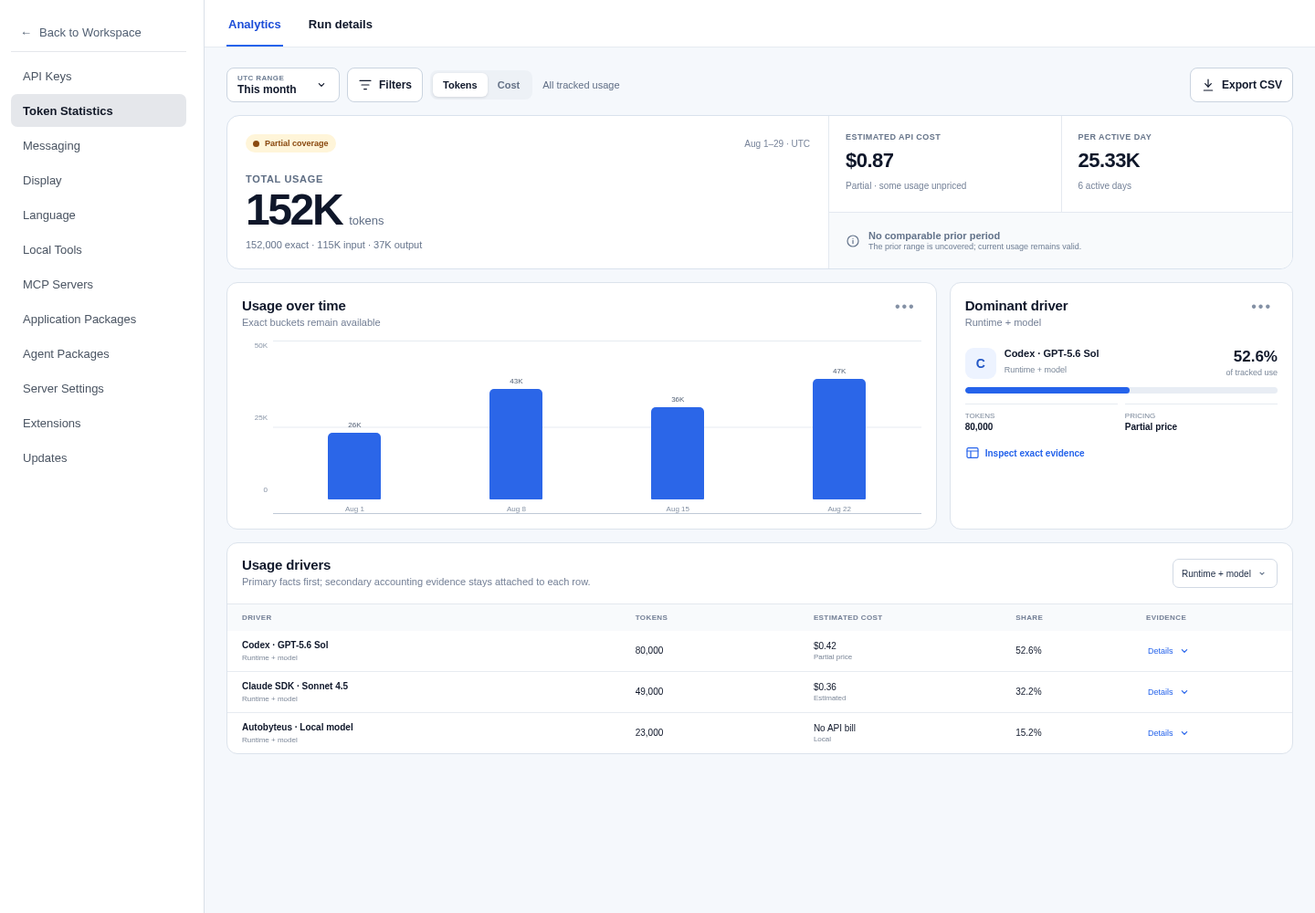
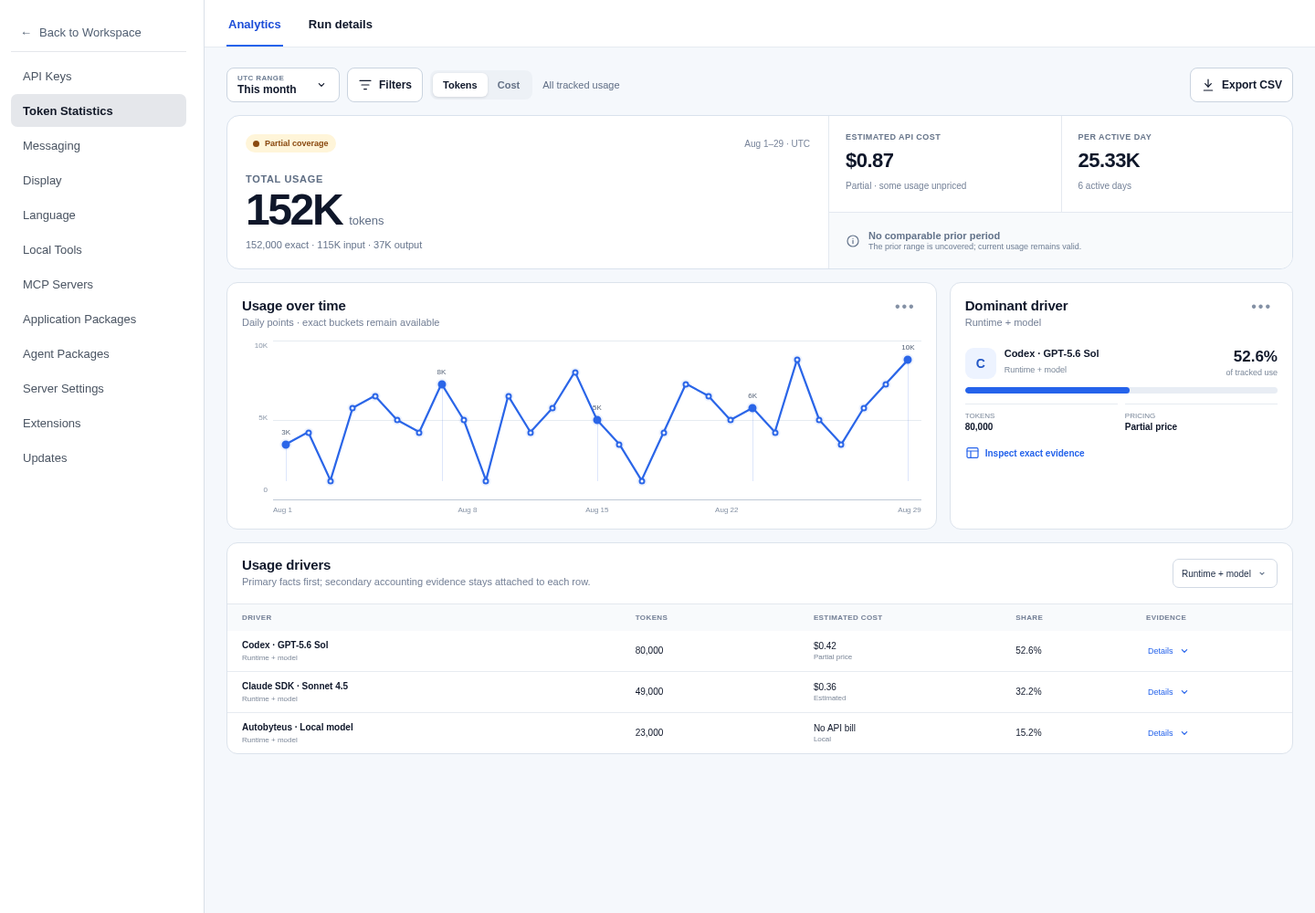
prototype: replace usage bars with daily line trend

Changed region(s): [[0.2188, 0.403, 0.6875, 0.558], [0.1875, 0.341, 0.3125, 0.372]]

diff --git a/visualizers/REQPKG-TSUI-001/src/App.tsx b/visualizers/REQPKG-TSUI-001/src/App.tsx
@@ -191,7 +191,7 @@ function Analytics(props: AnalyticsProps) {
         <div><span>Prior period</span><strong>{props.full ? "+28.2%" : "—"}</strong><small>{props.full ? "+33.44K · Prior 118.56K" : "Not comparable"}</small></div>
       </section>
       <div className="dense-analysis-grid">
-        <section className="plain-section trend-section"><SectionHeading title="Usage over time" meta="Aug 1–29 · UTC" /><TrendChart compact metric={props.metric} full={props.full} /></section>
+        <section className="plain-section trend-section"><SectionHeading title="Usage over time" meta="Aug 1–29 · UTC" /><TrendChart compact filtered={props.filterApplied} metric={props.metric} full={props.full} /></section>
         <section className="plain-section rank-section"><SectionHeading title="Leading drivers" meta="Runtime + model" /><DriverBars rows={driverData} metric={props.metric} /></section>
       </div>
       <DenseEvidence exactVisible={props.exactVisible} evidenceOpen={props.evidenceOpen} rows={driverData} setEvidenceOpen={props.setEvidenceOpen} />
@@ -219,7 +219,7 @@ function Analytics(props: AnalyticsProps) {
       </div>
     </section>
     <div className="focus-analysis-grid">
-      <section className="surface-section trend-section"><SectionHeading title="Usage over time" meta="Exact buckets remain available" /><TrendChart metric={props.metric} full={props.full} /></section>
+      <section className="surface-section trend-section"><SectionHeading title="Usage over time" meta="Daily points · exact buckets remain available" /><TrendChart filtered={props.filterApplied} metric={props.metric} full={props.full} /></section>
       <section className="surface-section driver-spotlight"><SectionHeading title="Dominant driver" meta="Runtime + model" /><DriverSpotlight row={driverData[0]} metric={props.metric} /><button className="text-action" onClick={() => props.setEvidenceOpen(props.evidenceOpen ? null : "codex")} type="button"><Icon name="table" /> Inspect exact evidence</button></section>
     </div>
     <FocusEvidence exactVisible={props.exactVisible} evidenceOpen={props.evidenceOpen} rows={driverData} setEvidenceOpen={props.setEvidenceOpen} />
@@ -271,13 +271,38 @@ function SectionHeading({ title, meta }: { title: string; meta: string }) {
   return <div className="section-heading"><div><h3>{title}</h3><p>{meta}</p></div><button aria-label={`More options for ${title}`} type="button">•••</button></div>;
 }
 
-function TrendChart({ compact = false, metric, full }: { compact?: boolean; metric: Metric; full: boolean }) {
-  const values = metric === "tokens" ? [26, 43, 36, 47] : [18, 28, 22, full ? 31 : 19];
+function TrendChart({ compact = false, filtered, metric, full }: { compact?: boolean; filtered: boolean; metric: Metric; full: boolean }) {
+  const tokenValues = filtered
+    ? [2, 2, 0, 3, 4, 3, 2, 4, 3, 0, 4, 2, 3, 5, 3, 2, 0, 2, 4, 4, 3, 3, 2, 5, 3, 2, 3, 4, 3]
+    : [3, 4, 0, 6, 7, 5, 4, 8, 5, 0, 7, 4, 6, 9, 5, 3, 0, 4, 8, 7, 5, 6, 4, 10, 5, 3, 6, 8, 10];
+  const costTotal = filtered ? 0.42 : full ? 1.17 : 0.87;
+  const tokenTotal = tokenValues.reduce((sum, value) => sum + value, 0);
+  const values = metric === "tokens" ? tokenValues : tokenValues.map((value) => value * costTotal / tokenTotal);
   const max = Math.max(...values);
+  const points = values.map((value, index) => ({
+    day: index + 1,
+    value,
+    x: 2 + (index / (values.length - 1)) * 96,
+    y: 88 - (value / max) * 76,
+  }));
+  const linePath = points.map((point, index) => `${index === 0 ? "M" : "L"} ${point.x} ${point.y}`).join(" ");
+  const emphasisDays = new Set([1, 8, 15, 22, 29]);
+  const formatValue = (value: number) => metric === "tokens" ? `${value}K` : `$${value.toFixed(2)}`;
+  const exactSeries = points.map((point) => `Aug ${point.day}: ${metric === "tokens" ? `${point.value * 1000} tokens` : `$${point.value.toFixed(4)}`}`).join(", ");
   return <div className={`trend-chart ${compact ? "compact" : ""}`}>
-    <div className="chart-y"><span>{metric === "tokens" ? "50K" : "$0.40"}</span><span>{metric === "tokens" ? "25K" : "$0.20"}</span><span>0</span></div>
-    <div className="bars" role="img" aria-label={`${metric === "tokens" ? "Token" : "Estimated cost"} usage across four chronological UTC buckets: ${values.join(", ")}`}>
-      {values.map((value, index) => <div className="bar-column" key={index}><span className="bar-value">{metric === "tokens" ? `${value}K` : `$${(value / 100).toFixed(2)}`}</span><span className="bar" style={{ height: `${Math.round((value / max) * (compact ? 86 : 132))}px` }} /><small>Aug {index * 7 + 1}</small></div>)}
+    <div className="chart-y"><span>{formatValue(max)}</span><span>{formatValue(max / 2)}</span><span>0</span></div>
+    <div className="line-chart-shell" role="img" aria-label={`${metric === "tokens" ? "Token" : "Estimated cost"} usage across 29 daily UTC buckets. ${exactSeries}`}>
+      <div className="line-plot">
+        <svg aria-hidden="true" className="trend-line-svg" preserveAspectRatio="none" viewBox="0 0 100 100">
+          <path className="trend-line" d={linePath} vectorEffect="non-scaling-stroke" />
+        </svg>
+        {points.map((point) => <span className={`trend-point-wrap ${emphasisDays.has(point.day) ? "emphasis" : ""}`} key={point.day} style={{ left: `${point.x}%`, top: `${point.y}%` }}>
+          {emphasisDays.has(point.day) && <span className="trend-stem" />}
+          {emphasisDays.has(point.day) && point.value > 0 && <span className="trend-point-value">{formatValue(point.value)}</span>}
+          <span className="trend-point" />
+        </span>)}
+      </div>
+      <div className="line-x-labels"><span>Aug 1</span><span>Aug 8</span><span>Aug 15</span><span>Aug 22</span><span>Aug 29</span></div>
     </div>
   </div>;
 }

diff --git a/visualizers/REQPKG-TSUI-001/src/styles.css b/visualizers/REQPKG-TSUI-001/src/styles.css
@@ -132,14 +132,22 @@ h1 { font-size: clamp(28px, 3.5vw, 44px); letter-spacing: -.035em; line-height: 
 .comparison-note strong { font-size: 11px; }
 .comparison-note span { color: #718096; font-size: 9px; }
 .focus-analysis-grid { display: grid; gap: 14px; grid-template-columns: minmax(0, 1.55fr) minmax(250px, .75fr); margin-bottom: 14px; }
-.trend-chart { display: grid; grid-template-columns: 34px 1fr; height: 190px; margin-top: 12px; }
+.trend-chart { display: grid; grid-template-columns: 34px minmax(0, 1fr); height: 190px; margin-top: 12px; }
 .trend-chart.compact { height: 142px; }
 .chart-y { color: #8a96a8; display: flex; flex-direction: column; font-size: 8px; justify-content: space-between; padding: 1px 6px 22px 0; text-align: right; }
-.bars { align-items: end; background-image: linear-gradient(#e6ebf1 1px, transparent 1px); background-size: 100% 50%; border-bottom: 1px solid #bfc9d6; display: flex; gap: clamp(12px, 4vw, 34px); justify-content: space-around; padding: 12px 18px 0; }
-.bar-column { align-items: center; display: flex; flex: 1; flex-direction: column; justify-content: end; max-width: 86px; min-width: 24px; position: relative; }
-.bar { background: #2b66e8; border-radius: 5px 5px 1px 1px; display: block; max-width: 58px; min-height: 5px; width: 100%; }
-.bar-value { color: #536176; font-size: 8px; margin-bottom: 4px; }
-.bar-column small { color: #8390a3; font-size: 8px; margin-top: 6px; white-space: nowrap; }
+.line-chart-shell { display: flex; flex-direction: column; min-width: 0; }
+.line-plot { background-image: linear-gradient(#e6ebf1 1px, transparent 1px); background-size: 100% 50%; border-bottom: 1px solid #bfc9d6; flex: 1; min-height: 0; position: relative; }
+.trend-line-svg { inset: 0; overflow: visible; position: absolute; width: 100%; height: 100%; }
+.trend-line { fill: none; stroke: #2b66e8; stroke-linecap: round; stroke-linejoin: round; stroke-width: 2.25; }
+.trend-point-wrap { bottom: 12%; position: absolute; width: 0; }
+.trend-point { background: #fff; border: 2px solid #2b66e8; border-radius: 50%; box-shadow: 0 0 0 2px rgba(43, 102, 232, .08); display: block; height: 7px; position: absolute; transform: translate(-50%, -50%); width: 7px; }
+.trend-point-wrap.emphasis .trend-point { background: #2b66e8; height: 9px; width: 9px; }
+.trend-stem { background: rgba(43, 102, 232, .16); bottom: 0; left: 0; position: absolute; top: 4px; width: 1px; }
+.trend-point-value { color: #536176; font-size: 8px; left: 0; position: absolute; top: -18px; transform: translateX(-50%); white-space: nowrap; }
+.line-x-labels { color: #8390a3; display: grid; font-size: 8px; grid-template-columns: repeat(5, 1fr); padding-top: 6px; }
+.line-x-labels span { text-align: center; white-space: nowrap; }
+.line-x-labels span:first-child { text-align: left; }
+.line-x-labels span:last-child { text-align: right; }
 .driver-spotlight-body { display: grid; gap: 9px; grid-template-columns: 34px 1fr auto; margin-top: 20px; }
 .driver-icon { align-items: center; background: #edf3ff; border-radius: 9px; color: #2458c6; display: flex; font-size: 14px; font-weight: 800; grid-row: 1; height: 34px; justify-content: center; width: 34px; }
 .driver-name { display: grid; gap: 2px; }

diff --git a/tickets/in-progress/REQPKG-TSUI-001/prototype-ticket.md b/tickets/in-progress/REQPKG-TSUI-001/prototype-ticket.md
@@ -28,9 +28,9 @@
 - Product acceptance result and date: Accepted 2026-08-29; see `/home/autobyteus/workspace/autobyteus-web-prototype-worktrees/REQPKG-TSUI-001/tickets/in-progress/REQPKG-TSUI-001/baseline-acceptance.md`.
 - Accepted Token Statistics baseline revision: `6ba98942c669329f70ba902db4a2880375ad52ad`
 - Baseline metadata revision: `16638137bdb8ebe627507dac6c3c8bdbc5edf9d6`
-- Prototype revision containing the current `RV-003` visualizer, feasibility audit, and evidence: `82505829cb62937f5acd479ce17668a66178a7a0`
+- Prototype revision containing the current `RV-004` visualizer, feasibility audit, and evidence: Pending durable `RV-004` commit.
 - Ticket folder: `/home/autobyteus/workspace/autobyteus-web-prototype-worktrees/REQPKG-TSUI-001/tickets/in-progress/REQPKG-TSUI-001`
-- Integration target and result: The accepted baseline commits `6ba98942c669329f70ba902db4a2880375ad52ad` and `16638137bdb8ebe627507dac6c3c8bdbc5edf9d6` are now on `origin/personal`. The exploratory `RV-003` work remains only on `prototype/reqpkg-tsui-001` while user review is open.
+- Integration target and result: The accepted baseline commits `6ba98942c669329f70ba902db4a2880375ad52ad` and `16638137bdb8ebe627507dac6c3c8bdbc5edf9d6` are now on `origin/personal`. The exploratory `RV-004` work remains only on `prototype/reqpkg-tsui-001` while user review is open.
 - Cleanup result: Deferred. Retain the active worktree and review runtimes while status is `Awaiting User Review`.
 
 ## Runtime Isolation
@@ -48,8 +48,8 @@
 
 - UI/UX specification: Not applicable in exploratory Requirements Visualization mode.
 - Requirements-visualization brief: `/home/autobyteus/workspace/autobyteus-web-prototype-worktrees/REQPKG-TSUI-001/tickets/in-progress/REQPKG-TSUI-001/requirements-visualization-brief.md`
-- Requirements-visualization design plan: `/home/autobyteus/workspace/autobyteus-web-prototype-worktrees/REQPKG-TSUI-001/tickets/in-progress/REQPKG-TSUI-001/requirements-visualization-design-plan.md`; revision `RV-002`, status `Ready to Build`.
-- Requirements-visualization review: `/home/autobyteus/workspace/autobyteus-web-prototype-worktrees/REQPKG-TSUI-001/tickets/in-progress/REQPKG-TSUI-001/requirements-visualization-review.md`; revision `RV-003`, status `Ready for Review`.
+- Requirements-visualization design plan: `/home/autobyteus/workspace/autobyteus-web-prototype-worktrees/REQPKG-TSUI-001/tickets/in-progress/REQPKG-TSUI-001/requirements-visualization-design-plan.md`; revision `RV-004`, status `Ready to Build`.
+- Requirements-visualization review: `/home/autobyteus/workspace/autobyteus-web-prototype-worktrees/REQPKG-TSUI-001/tickets/in-progress/REQPKG-TSUI-001/requirements-visualization-review.md`; revision `RV-004`, status `Ready for Review`.
 - Current-contract feasibility audit: `/home/autobyteus/workspace/autobyteus-web-prototype-worktrees/REQPKG-TSUI-001/tickets/in-progress/REQPKG-TSUI-001/implementation-feasibility-audit.md`; classification `Achievable with current source-pin data and GraphQL contracts after correction`.
 - Visualizer source: `/home/autobyteus/workspace/autobyteus-web-prototype-worktrees/REQPKG-TSUI-001/visualizers/REQPKG-TSUI-001`
 - Future-state visual-reference directory: `/home/autobyteus/workspace/autobyteus-web-prototype-worktrees/REQPKG-TSUI-001/tickets/in-progress/REQPKG-TSUI-001/visual-references`
@@ -57,15 +57,15 @@
 - Visualizer template revision: Agent repository `a6af4fd689a1c6cb1ec1f06c07d0b6011a8c8679`; template last changed in `e9a158b4cb80d4fa54d0c495d6ba862a34cf874d`.
 - Active capabilities: React, Vite, TypeScript, CSS, inline SVG, deterministic local state, Playwright browser validation.
 - Omitted optional capabilities: Motion, Three.js, React Three Fiber, and Drei; the comparison does not depend on animation or spatial reasoning.
-- Validation commands and results: `npm run build` passed; `npm run validate` passed `16/16`; Chromium desktop `1440x1000`, constrained composition, actual narrow `390x844`, UTC/English/light/reduced-motion; zero browser errors; no page-level narrow overflow; named controls; no redundant `h1`; zero active animations; local export status; keyboard navigation resize; Run-details model columns limited to current-query fields.
+- Validation commands and results: `npm run build` passed; `npm run validate` passed `17/17`; Chromium desktop `1440x1000`, constrained composition, actual narrow `390x844`, UTC/English/light/reduced-motion; zero browser errors; no page-level narrow overflow; named controls; no redundant `h1`; zero active animations; local export status; keyboard navigation resize; Run-details model columns limited to current-query fields; Usage over time verified as 29 daily points, one line, and zero bars.
 - Validation evidence: `/home/autobyteus/workspace/autobyteus-web-prototype-worktrees/REQPKG-TSUI-001/tickets/in-progress/REQPKG-TSUI-001/validation`; browser `16/16` pass and pinned-source contract audit `PASS`.
-- User-confirmation reference: User feedback on 2026-08-29 rejected visible Requirements Visualization metadata/chrome (`RV-002`) and then required explicit proof that downstream implementation can use the current data structure without invented facts (`RV-003`).
+- User-confirmation reference: User feedback on 2026-08-29 rejected visible Requirements Visualization metadata/chrome (`RV-002`), required explicit proof that downstream implementation can use the current data structure without invented facts (`RV-003`), and preferred a point-marked line/curve over vertical bars for usage over time (`RV-004`).
 - Mocked boundaries and known limitations: Synthetic locally resettable fixtures; no production runtime or persistent export. Loading/error/empty/local/mixed-currency/localization/custom-date/sorting permutations remain established by the accepted baseline but are not exhaustively re-rendered in this focused visual comparison. This Requirements Visualization must not be treated as a complete implementation-ready final prototype.
 
 ## Outcome And Handoff
 
 - Current outcome: `Requirements Visualization Ready`
-- Completed behavior and evidence: Accepted Token Statistics baseline is durably integrated through `origin/personal` revision `16638137bdb8ebe627507dac6c3c8bdbc5edf9d6`. `RV-003` maps every proposed fact/action to the current pinned analytics and Run-details contracts, removes the unsupported illustrative model `Runs` count, retains the two clean product-only URLs, and passes `16/16` browser checks.
+- Completed behavior and evidence: Accepted Token Statistics baseline is durably integrated through `origin/personal` revision `16638137bdb8ebe627507dac6c3c8bdbc5edf9d6`. `RV-004` retains the current-contract audit and clean product-only URLs, and replaces usage bars with a data-supported 29-point daily line; `17/17` browser checks pass.
 - First-view simplicity evidence: Product-only DOM and screenshots contain no visualization heading, direction/journey selector, selection strip, reset control, or explanatory footer. Primary usage, coverage, trend, missing comparison, and dominant driver remain scannable in the initial view.
 - Motion/comprehension evidence: No decision-relevant motion; stable states persist. Automated checks establish the interaction/result relationship, but human preference and comprehension remain unconfirmed.
 - Remaining product decisions: User selection of Direction A or B and confirmation of control disclosure, exact-evidence treatment, and Run-details unification (`DEC-001`–`DEC-004`).

diff --git a/tickets/in-progress/REQPKG-TSUI-001/requirements-visualization-design-plan.md b/tickets/in-progress/REQPKG-TSUI-001/requirements-visualization-design-plan.md
@@ -1,20 +1,21 @@
 # Requirements Visualization Design Plan
 
 - Package / ticket ID: `REQPKG-TSUI-001`
-- Revision: `RV-002`
+- Revision: `RV-004`
 - Decision question: Which composition should govern future Token Statistics hierarchy, density, evidence disclosure, and Run-details cohesion?
 - One-sentence user takeaway: The user can compare two credible treatments over the same truthful states and explain which one makes real usage dominant without weakening exact evidence.
-- Chosen visual form: Two clean product-only compositions selected by URL, each retaining real product-native interaction.
+- Chosen visual form: Two clean product-only compositions selected by URL, each retaining real product-native interaction. Usage over time is a line chart with point markers and restrained vertical guides rather than vertical bars.
 - Why this is the smallest suitable representation: User feedback establishes that persistent visualization chrome obscures the product decision. Two clean URLs preserve exact composition and let the product itself carry the comparison; state-specific evidence is reached through the proposed controls rather than an external journey navigator.
-- Alternatives considered and rejected: Persistent review headers/selectors were built in RV-001 and explicitly rejected by the user as distracting; a floating review drawer would still add non-product surface; static screenshots alone would remove interaction; side-by-side pages would shrink content; animation would add irrelevant motion.
+- Alternatives considered and rejected: Persistent review headers/selectors were built in RV-001 and explicitly rejected by the user as distracting; a floating review drawer would still add non-product surface; static screenshots alone would remove interaction; side-by-side pages would shrink content; animation would add irrelevant motion. Vertical bars were rejected in RV-004 because the user's primary reading task is the shape of usage across chronological buckets; an area fill was rejected because it would add visual mass and could imply continuous volume between discrete buckets.
 - Implementation technology selected after the design gate: Ticket-scoped React/Vite/TypeScript visualizer copied from the required scaffold, using plain React state and CSS only. `motion`, Three.js, React Three Fiber, and Drei remain installed but intentionally unused.
 
 ## Visible Model
 
 - Initial view: A full-viewport Settings > Token Statistics product surface, Direction A by default, populated partial coverage/no comparison, with no external visualization copy or controls.
-- Actors or objects to show: Settings navigation and manual resize handle; Analytics/Run-details tabs; compact product controls; primary usage evidence; secondary evidence disclosure.
+- Actors or objects to show: Settings navigation and manual resize handle; Analytics/Run-details tabs; compact product controls; primary usage evidence; a bucket-based line with visible point markers; secondary evidence disclosure.
 - States to show: Partial/no comparison; full/comparable; filters open; exact driver evidence open; Run details; constrained width.
 - Relationship or causal distinction: Separate clean Direction A/B URLs change hierarchy and disclosure strategy while data truth stays fixed; product-native actions expose the corresponding filter/evidence/Run-details state.
+- Trend truth rule: Each marker corresponds to one exact returned bucket. The connecting line supports trend perception but does not replace the exact bucket value or accessible text alternative. No invented interpolation is used for accounting.
 - Details intentionally hidden or deferred: Secondary filter fields remain behind `Filters`; accounting metadata remains behind row evidence; Run child/member rows remain behind expansion; exact chart bucket tables are acknowledged but not fully reproduced because exact-row strategy is the decision focus.
 
 ## Motion Design
@@ -59,5 +60,5 @@
 - [x] Decision-relevant motion is slow enough to follow, holds the consequence, and avoids unrelated simultaneous movement. (No decision-relevant motion is used; stable state persists.)
 - [x] The same decision-relevant meaning is available without motion or 3D.
 - Status: `Ready to Build`
-- Remaining design concern: Separate direction URLs must be clearly listed in the handoff so removal of on-page review chrome does not make the comparison undiscoverable.
-- Evidence for the decision: User feedback on RV-001 explicitly requested removal of all visualization content above and below the product so the review shows only what could become the product; the accepted baseline still supplies the truth contract.
+- Remaining design concern: Separate direction URLs must be clearly listed in the handoff so removal of on-page review chrome does not make the comparison undiscoverable. Final implementation must use exact returned day/week/month buckets and preserve the accessible exact bucket table.
+- Evidence for the decision: User feedback on RV-001 explicitly requested removal of all visualization content above and below the product so the review shows only what could become the product; RV-004 explicitly prefers a point-marked line/curve over bars for daily/monthly usage; the accepted baseline supplies the truth contract.

diff --git a/tickets/in-progress/REQPKG-TSUI-001/requirements-visualization-review.md b/tickets/in-progress/REQPKG-TSUI-001/requirements-visualization-review.md
@@ -1,8 +1,8 @@
 # Requirements Visualization Review
 
 - Package / ticket ID: `REQPKG-TSUI-001`
-- Visualization revision: `RV-003`
-- Product revision containing the current visualizer, audit, and evidence: `82505829cb62937f5acd479ce17668a66178a7a0`
+- Visualization revision: `RV-004`
+- Product revision containing the current visualizer, audit, and evidence: Pending `RV-004` commit.
 - Review URLs:
   - Direction A — Focused hierarchy: `http://127.0.0.1:3262/?direction=focus`
   - Direction B — Dense explorer: `http://127.0.0.1:3262/?direction=dense`
@@ -24,12 +24,12 @@
 - Pause / replay / reset / step / slow controls exercised: Not applicable for motion. Reloading either clean URL restores its deterministic partial/no-comparison state; deterministic `scene` parameters support evidence capture.
 - Mocked boundaries: Synthetic totals, costs, trend buckets, coverage/pricing statuses, filters, drivers, runs, CSV feedback, and navigation width. No production query, persistence, accounting recomputation, customer data, credential, or live service is used.
 - Accessibility or non-motion fallback: All controls are named; tabs and metric groups expose roles/state; the navigation separator is keyboard operable; export uses a live status; reduced-motion mode has zero active animation; meaning does not depend on motion.
-- Plan fidelity or intentional deviations: The product-only visual form still matches design plan `RV-002`. The prior `RV-001` visualization header, explanatory copy, direction/journey controls, selection strip, and footer remain removed. `RV-003` makes a field-level feasibility correction without changing the visual form: an unsupported Run-details model `Runs` count was removed.
+- Plan fidelity or intentional deviations: Matches design plan `RV-004`. The product-only treatment and `RV-003` contract correction remain. `RV-004` replaces vertical usage bars with a daily line and 29 point markers; each point remains a discrete exact UTC bucket and no area fill or accounting interpolation is introduced.
 
 ## Validation Evidence
 
 - Browser entry point: `http://127.0.0.1:3262/?direction=focus` and `http://127.0.0.1:3262/?direction=dense`
-- Scenarios exercised: `16/16` checks passed in Chromium with UTC timezone, English locale, light theme, and reduced motion. Both directions were opened through clean URLs; decision states were exercised with product-native controls; the Run-details model table is contract-limited.
+- Scenarios exercised: `17/17` checks passed in Chromium with UTC timezone, English locale, light theme, and reduced motion. Both directions were opened through clean URLs; decision states were exercised with product-native controls; the Run-details model table is contract-limited; the trend is verified as a 29-point daily line with zero bar elements.
 - Responsive checks: Desktop `1440x1000`; constrained product composition; actual `390x844` viewport with `documentWidth === viewport` and critical controls/evidence retained.
 - Reset / replay checks: Each direction/state URL is deterministic; clean direction URLs reload to the stable populated partial/no-comparison fixture.
 - First-view simplicity check: DOM and screenshot inspection confirm that the visible page contains only the Settings product surface. No Requirements Visualization heading, question copy, visual-direction selector, journey selector, reset control, selection summary, or explanatory footer remains.
@@ -52,7 +52,7 @@
 
 ## Feedback And Next Action
 
-- Feedback received: Remove the large Requirements Visualization wrapper and show only the proposed product. Then verify that every proposed fact is achievable with the current data structure so downstream implementation does not discover an invented requirement.
+- Feedback received: Remove the large Requirements Visualization wrapper and show only the proposed product; verify every fact against the current data structure; replace vertical usage bars with a point-marked line/curve that communicates daily change.
 - Requirement or scope impact: No canonical behavior or acceptance criterion changed. This is a focused representation revision.
-- Requested revision: Completed in `RV-003`; the clean product-only URLs remain, the current frontend/server/query contracts are mapped in a feasibility audit, and the one unsupported illustrative Run-details model `Runs` count was removed.
+- Requested revision: Completed in `RV-004`; the clean product-only URLs and feasibility correction remain, and Usage over time now uses a point-marked daily line instead of bars.
 - Next expected action: The user selects Direction A or Direction B and clarifies the preferred control disclosure, exact-evidence treatment, and degree of Run-details unification. Requirements Engineering records the decision; this artifact does not claim approval.

diff --git a/tickets/in-progress/REQPKG-TSUI-001/requirements-visualization-brief.md b/tickets/in-progress/REQPKG-TSUI-001/requirements-visualization-brief.md
@@ -1,7 +1,7 @@
 # Requirements Visualization Brief
 
 - Package / ticket ID: `REQPKG-TSUI-001`
-- Revision: `RV-003`
+- Revision: `RV-004`
 - Mode: Requirements Visualization
 - Requirements / behavior / acceptance-criteria IDs: `BEH-001`–`BEH-006`; `REQ-001`–`REQ-014`; `AC-001`–`AC-014`; decisions `DEC-001`–`DEC-004`
 - Decision question: Which of two credible Token Statistics compositions should govern the future hierarchy, control density, exact-evidence disclosure, and degree of Run-details unification?
@@ -16,11 +16,12 @@
 - Existing frontend / prototype repository context: Accepted current-experience baseline `6ba98942c669329f70ba902db4a2880375ad52ad` in Product worktree `/home/autobyteus/workspace/autobyteus-web-prototype-worktrees/REQPKG-TSUI-001`, sourced from `origin/personal` pin `9d0fd7c570d58da1af2c7a40279327c8a20a8093`.
 - Success signal: A reviewer can state which direction better supports first-scan comprehension and why, while confirming whether its controls, evidence disclosure, Run-details treatment, and narrow behavior preserve trust and usability.
 - Known unknowns: User preference between the two clean product compositions; whether secondary filters should default open; whether Run details should be fully restyled or only visually bridged.
-- Revision triggers: User feedback rejected the persistent visualization heading, explanatory copy, direction/journey controls, selection summary, and footer as distracting and unlike the intended product (`RV-002`). The user then required explicit proof that the proposal is achievable with the current data structure and does not invent implementation scope (`RV-003`).
+- Revision triggers: User feedback rejected the persistent visualization heading, explanatory copy, direction/journey controls, selection summary, and footer as distracting and unlike the intended product (`RV-002`). The user then required explicit proof that the proposal is achievable with the current data structure and does not invent implementation scope (`RV-003`). The user next preferred a line/spline trend with point markers over vertical bars for usage over time (`RV-004`).
 
 ## Visualization Scope
 
 - What the user should be able to see: Only the proposed Settings product surface—no visualization heading, explanation, direction selector, journey selector, summary strip, or footer—while total use, cost/status, coverage, trend, comparison availability, and dominant driver remain visible in the first frame.
+- Usage-over-time form: A line chart with visible point markers for each returned chronological bucket, plus restrained vertical guides and exact labels. Bars are intentionally removed; the line communicates change over time while the points keep each discrete bucket inspectable.
 - What the user should be able to interact with: Use product-native range/metric/filter/export/grouping/evidence/tab controls and manually resize the Settings navigation. Direction A/B and deterministic review-state entry are selected by separate clean URL parameters rather than visible prototype chrome.
 - What is mocked: Deterministic token/cost fixtures, dates, chart bars/lines, provider/model/run identities, filter result, disclosure state, CSV result feedback, and constrained-width frame.
 - What must not be implied as production behavior: No production queries, persistence, accounting recomputation, pricing lookup, CSV storage, source navigation policy change, or approved final UI contract.

diff --git a/visualizers/REQPKG-TSUI-001/README.md b/visualizers/REQPKG-TSUI-001/README.md
@@ -24,6 +24,9 @@ contracts and removes an unsupported illustrative Run-details model `Runs`
 count. The audit is recorded in the Product ticket as
 `implementation-feasibility-audit.md`.
 
+`RV-004` replaces the usage-over-time bars with a daily line chart and visible
+point markers, using the same current-contract bucket data.
+
 For deterministic evidence capture, append one of these optional states:
 `&scene=comparable`, `&scene=filters`, `&scene=evidence`, `&scene=runs`, or
 `&scene=narrow`. The same states are also reachable with product-native range,

diff --git a/tickets/in-progress/REQPKG-TSUI-001/implementation-feasibility-audit.md b/tickets/in-progress/REQPKG-TSUI-001/implementation-feasibility-audit.md
@@ -2,7 +2,7 @@
 
 - Package / ticket ID: `REQPKG-TSUI-001`
 - Audit revision: `FA-001`
-- Visualization revision assessed: `RV-003`
+- Visualization revision assessed: `RV-004`
 - Audit date: 2026-08-29
 - Source authority: `origin/personal` at `9d0fd7c570d58da1af2c7a40279327c8a20a8093`
 - Classification: `Achievable with the current source-pin data and GraphQL contracts after one unsupported illustrative column was removed`
